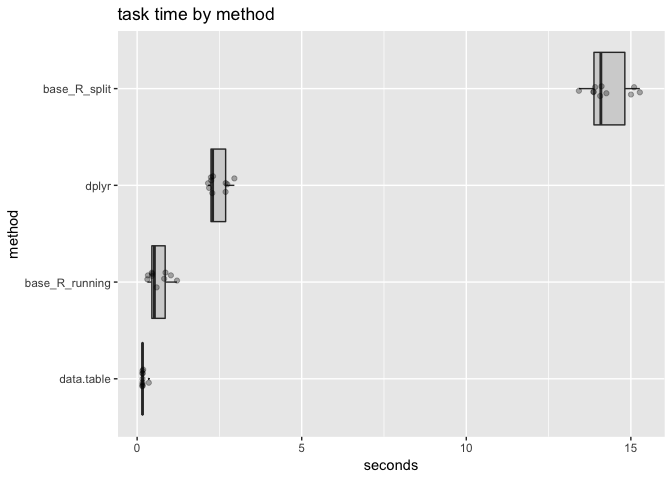
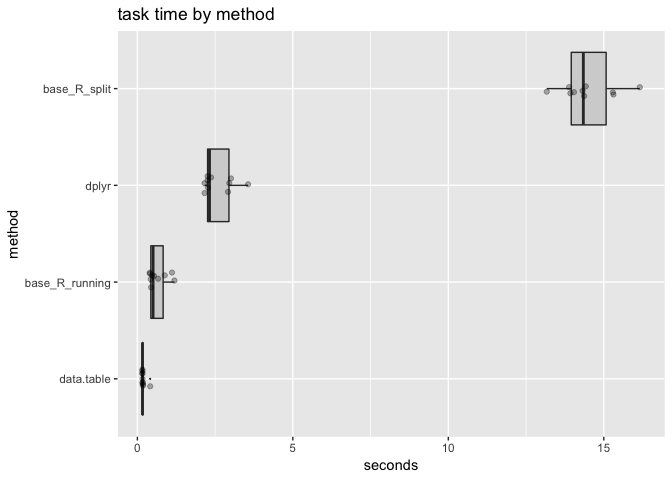
re-run

diff --git a/grouped_ops/grouped_sum_timing.md b/grouped_ops/grouped_sum_timing.md
@@ -42,6 +42,7 @@ packageVersion("data.table")
 ``` r
 library("microbenchmark")
 library("WVPlots")
+library("FastBaseR")
 
 f_base_R_split <- function(data) {
   # first sort the data
@@ -68,30 +69,15 @@ f_base_R_running <- function(data) {
   # first sort the data
   order_index <- with(data, order(x, y, decreasing = TRUE))
   odata <- data[order_index, , drop = FALSE]
-  # now compute a running sum across all groups
-  if(any(is.na(odata$y))) {
-    stop("saw NA")
-  }
-  odata$running_y_sum <- cumsum(odata$y)
-  # now identify where x changes value
-  group_start_index <- c(TRUE, odata$x[-1] != odata$x[-nrow(odata)])
-  # use the group start markers to get the index of the first row
-  # for each group
-  group_start_index <- ifelse(group_start_index, 
-                              seq_len(length(group_start_index)), 0)
-  group_start_index <- cummax(group_start_index)
-  # subtract off the group starts to 
-  # convert non-grouped running sum to per-group running sums
-  offset <- odata$y - odata$running_y_sum
-  odata$running_y_sum <- odata$running_y_sum  + offset[group_start_index]
   rownames(odata) <- NULL
+  first_indices <- mark_first_in_each_group(odata, "x")
+  odata$running_y_sum <- cumsum_g(odata$y, first_indices)
   odata
 }
 # above is a general grouped cumsum
 # similar ideas can implement:
 #  zoo::na.locf() (propogate index to last good value)
 #  grouped zoo::na.locf() (more detailed version of above)
-#  grouped min/max (first row in each group under appropriate sorting)
 #  grouped sum (at worst cumsum and grouped max)
 
 
@@ -218,16 +204,16 @@ print(timing)
 ```
 
     ## Unit: milliseconds
-    ##            expr       min         lq       mean     median        uq
-    ##    base_R_split 13421.546 13867.2538 14287.5633 14088.6780 15004.193
-    ##  base_R_running   310.213   446.1808   650.6018   525.2140   861.440
-    ##      data.table   159.415   162.6635   184.1573   163.0788   166.738
-    ##           dplyr  2154.965  2242.2044  2449.1062  2294.0786  2689.519
-    ##         max neval  cld
-    ##  15272.3679    10    d
-    ##   1211.4091    10  b  
-    ##    354.1081    10 a   
-    ##   2953.8621    10   c
+    ##            expr        min         lq       mean     median         uq
+    ##    base_R_split 13164.7168 13924.5205 14487.9381 14342.0757 15293.0643
+    ##  base_R_running   397.6931   430.5098   654.0105   505.1694   882.4682
+    ##      data.table   161.1109   162.0652   192.3184   164.4757   177.6825
+    ##           dplyr  2160.4281  2257.6933  2591.6680  2319.4578  2954.5711
+    ##         max neval cld
+    ##  16158.4283    10   c
+    ##   1192.3313    10 a  
+    ##    412.6025    10 a  
+    ##   3561.2299    10  b
 
 ``` r
 tm <- as.data.frame(timing)
